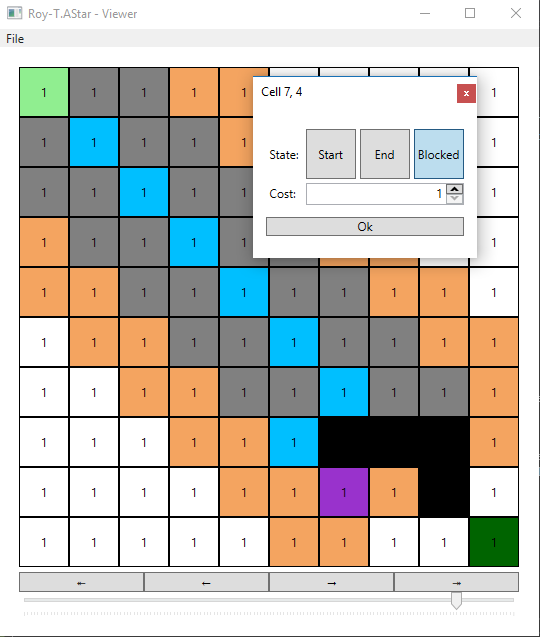
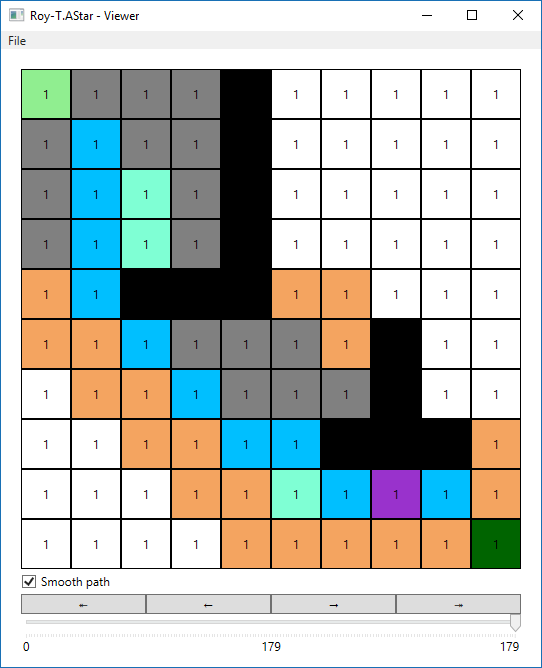
Update documentation

diff --git a/README.md b/README.md
@@ -1,5 +1,5 @@
 # Roy-T.AStar
-A 2D path finding library based on the A* algorithm for `.NETStandard 1.0` and `.Net 4.5` and higher. This library has no external dependencies. The library is licensed under the MIT license, see the `LICENSE` file for more details.
+A fast 2D path finding library based on the A* algorithm for `.NETStandard 1.0` and `.Net 4.5` and higher. This library has no external dependencies. The library is licensed under the MIT license, see the `LICENSE` file for more details.
 
 You can directly add this library to your project using [NuGet](https://www.nuget.org/packages/RoyT.AStar/):
 
@@ -11,35 +11,18 @@ For more information about the A* path finding algorithm and this library, pleas
 
 There is also a documented [version history](versions.md).
 
+## Why choose this library?
+- Its very fast
+- It generates lowest cost, visually appealing, paths by combining A* with string pulling
+- Its flexible, you can define how your agent moves and this library will accomodate these restrictions
+- Its easy to use, you can generate a path with two lines of code
+- It has zero (0) external dependencies
+- It works on both `.Net Core` and `.Net 4.5` and higher by targetting `.Net standard 1.0`
+
+
 ## Tutorial
 
-Below I give a textual explanation of this library and how to use it. If you are more interested in a code sample you can find it right after the next section.
-
-### Usage in text
-Your agent might be able to move fluently through a world with hills and water but that representation is too complex for the A* algorithm. 
-So the first thing you need to do is to is to create an abstract representation of your world that is simple enough for the path finding algorithm to understand.
-In this library we use a grid to represent the traversable, and intraversable, space in your world. 
-
-You can instantiate a grid using the `Grid` class. If you have a world that is a 100 by a 100 meters large, and you
-create a grid of 100x100, each cell will represent a patch of land of 1x1 meters. 
-
-Experiment with the size of the grid, a larger grid
-will give you more fine grained control but it will also make the path finding algorithm slower.
-
-Once you have a grid you need to configure which cells represent obstacles. Some obstacles, like a high wall, are intraversable. Use the `BlockCell` method to prevent the path finding algorithm from planning paths through that cell.
-Other obstacles, like dense shrubbery, take more time to traverse. In that case give the cell a higher cost using the `SetCellCost` method.
-
-Once you've configured your grid its time to start planning paths. Using the `GetPath` method you can immidately search for a path between two cells for an agent that can move in all directions. 
-You can also plan paths for agents that are more limited in their movent using the overload of `GetPath` that takes a `movementPattern` parameter. In that case you can either select one of the predefined ranges of motion from the `MovementPatterns` class or you can configure yourself what kind of steps an agent can make.
-
-You can define your own patterns for your agents. Below I have defined the movement pattern for an agent that can only move diagonally. (This movement pattern is included in the library as `MovementPatterns.DiagonalOnly`).
-
-```csharp
-var diagonalOnlyMovementPattern = new[] {
-    new Offset(-1, -1), new Offset(1, -1), , new Offset(1, 1), , new Offset(-1, 1)
-};
-```
-
+Below I give short code-first example. If you are more interested in textual explanation you can find it right after the next section.
 
 ### Usage example in code
 You can easily search for the lowest cost path for an agent that can move in all directions.
@@ -57,7 +40,7 @@ grid.BlockCell(new Position(5, 5))
 grid.SetCellCost(new Position(6, 5), 3.0f);
 
 // And finally start the search for the shortest path form start to end
-IList<Position> path = grid.GetPath(new Position(0, 0), new Position(99, 99));
+Position[] path = grid.GetPath(new Position(0, 0), new Position(99, 99));
 
 ```
 It is also posssible to define the agent's movement pattern.
@@ -70,7 +53,76 @@ var path = grid.GetPath(new Position(0, 0), new Position(99, 99), MovementPatter
 // For example, here is an agent that can only move left and up
 var movementPattern = new[] {new Offset(-1, 0), new Offset(0, -1)};
 var path = grid.GetPath(new Position(0, 0), new Position(99, 99), movementPattern);
+
 ```
+
+Paths might contain steps that look unnecessary but do not add to the costs (for example a zig zag pattern where a straight line would suffice). 
+You can smooth these out, without affecting the cost of the path.
+
+```csharp
+// you can smooth/straighten a path using the PathSmoother class.
+// This does not change the path's cost
+PathSmoother.SmoothPath(grid, path, movementPattern, 10);
+
+// Or get a smoothed path directly using
+var path2 = grid.GetSmoothPath(new Position(0, 0), new Position(99, 99), movementPattern);
+```
+
+### Usage in text
+Your agent might be able to move fluently through a world with hills and water but that representation is too complex for the A* algorithm. 
+So the first thing you need to do is to is to create an abstract representation of your world that is simple enough for the path finding algorithm to understand.
+In this library we use a grid to represent the traversable, and intraversable, space in your world. 
+
+You can instantiate a grid using the `Grid` class. If you have a world that is a 100 by a 100 meters large, and you
+create a grid of 100x100, each cell will represent a patch of land of 1x1 meters. 
+
+Experiment with the size of the grid, a larger grid
+will give you more fine grained control but it will also make the path finding algorithm slower.
+
+Once you have a grid you need to configure which cells represent obstacles. Some obstacles, like a high wall, are intraversable. Use the `BlockCell` method on your grid to prevent the path finding algorithm from planning paths through that cell.
+Other obstacles, like dense shrubbery, take more time to traverse. In that case give the cell a higher cost using the `SetCellCost` method.
+
+Once you've configured your grid its time to start planning paths. Using the `GetPath` or `GetSmoothPath` method you can immidately search for a path between two cells for an agent that can move in all directions. 
+You can also plan paths for agents that are more limited in their movent using the overload of `GetPath` that takes a `movementPattern` parameter. In that case you can either select one of the predefined ranges of motion from the `MovementPatterns` class or you can configure yourself what kind of steps an agent can make.
+
+You can define your own patterns for your agents. Below I have defined the movement pattern for an agent that can only move diagonally. (This movement pattern is included in the library as `MovementPatterns.DiagonalOnly`).
+
+```csharp
+var diagonalOnlyMovementPattern = new[] {
+    new Offset(-1, -1), new Offset(1, -1), , new Offset(1, 1), , new Offset(-1, 1)
+};
+```
+
+
+## Path Smoothing
+Since moving diagonal has the same cost as moving horizontal/vertical the path finding algorithm might computed paths that contain an unnecessary zig-zag pattern:
+
+![Path](unsmooth_path.png?raw=true "Unsmoothed path")
+
+This library includes a string pulling algorithm for straightening the paths so they are more visually appealing:
+
+![Smoothed path](smooth_path.png?raw=true "Smoothed path")
+
+This never affects the costs of the path! The path smoothing algorithm simply transforms the current path in an equal cost, nicer looking, path.
+
+You can get a smooth path directly using 
+
+```csharp
+var maxDistance = 10;
+var path = grid.GetSmootPath(new Position(0, 0), new Position(9,9), maxDistance);
+```
+
+Or you can smooth a path after you've created it using
+```csharp
+var maxDistance = 10;
+PathSmoother.SmoothPath(grid, path, movementPatterns.Full, maxDistance);
+```
+
+In both cases you can use the `maxDistance` parameter to tweak how local, or global, the string pulling effect is. A small value will only affect the path locally. 
+A large value will look ahead further and will try to smooth the path on both a local and global level. This is of course more expensive.
+
+
+
 
 ## Viewer
 This repository also contains a viewer which you can use to build worlds and visualize paths.
@@ -91,6 +143,7 @@ Each cell is color coded
 - Orange: a cell that still needs to be processed, *is open*
 - Purple: the cell that is currently being processed
 - Blue: a cell on, what currently is believed to be, the shortest path
+- Aquamarine: a cell that was on the best path but was replaced by a better candidated by the path smoothing algorithm
 
 
 
@@ -99,9 +152,11 @@ While making this library I was mostly concerned with performance (how long does
 I use a custom `MinHeap` data structure to keep track of the best candidates for the shortest path. I've experimented with other data structures, like the standard `SortedSet` but they were consistently slower. 
 Other small tricks I've used is using a `bool[]` to keep track of checked cells and using a good heuristic for grids (Chebyshev distance).
 
+Making paths more visually appealing is done by applying a string pulling algorithm to the finished path, instead of tweaking the heuristic (which would affect the speed and correctness of the A* algorithm).
+
 While micro-optimizing the code I've used the handy [BenchMark.Net](https://github.com/dotnet/BenchmarkDotNet) library to see if my changes had any effect. The benchmark suite is included in the source code here. So if you would like to try to make this implemention faster you can use the same benchmark and performance metrics I did.
 
-For version 1.1 I got the following numbers for a 100x100 grid (10000 cells) filled with a gradient.
+For version 1.2 I got the following numbers for a 100x100 grid (10000 cells) filled with a gradient. I'm planning to add more representative samples. Please send in any suggestions :).
 
 
 ``` ini

diff --git a/versions.md b/versions.md
@@ -2,5 +2,6 @@
  
  |            version |     Release data | Description |
  |:------------------ |:---------|:----------|
+ 1.2 | 2017-08-04| Add string pulling algorithm for path smoothing |
  1.1 | 2017-08-04| Fix issue #1, move to ChebyshevDistance heuristic |
  1.0 | 2017-08-01| Initial release |
